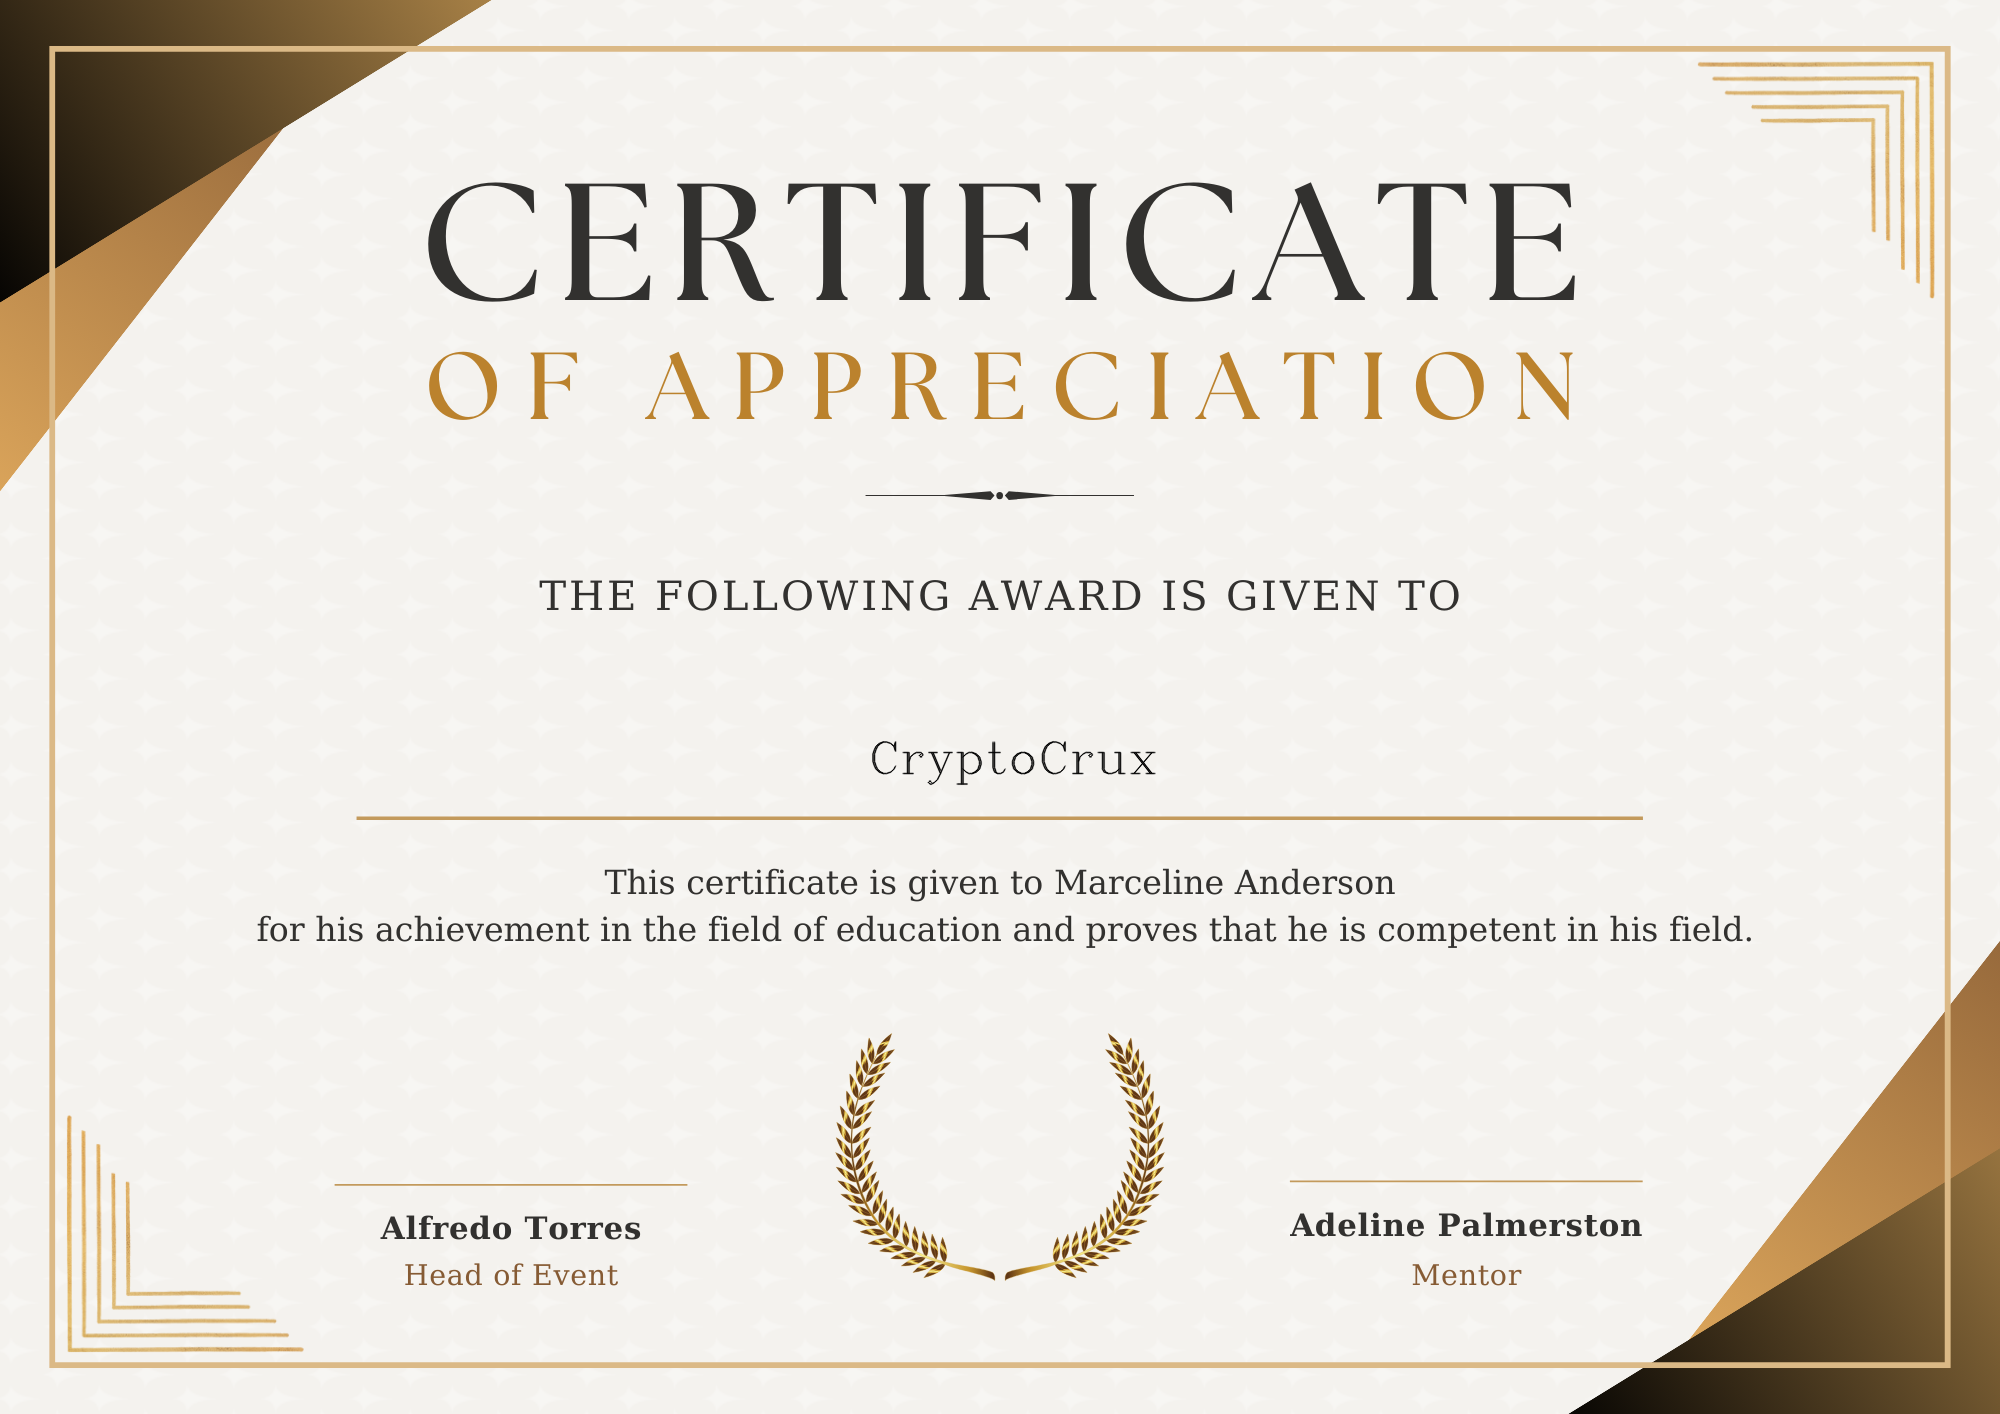
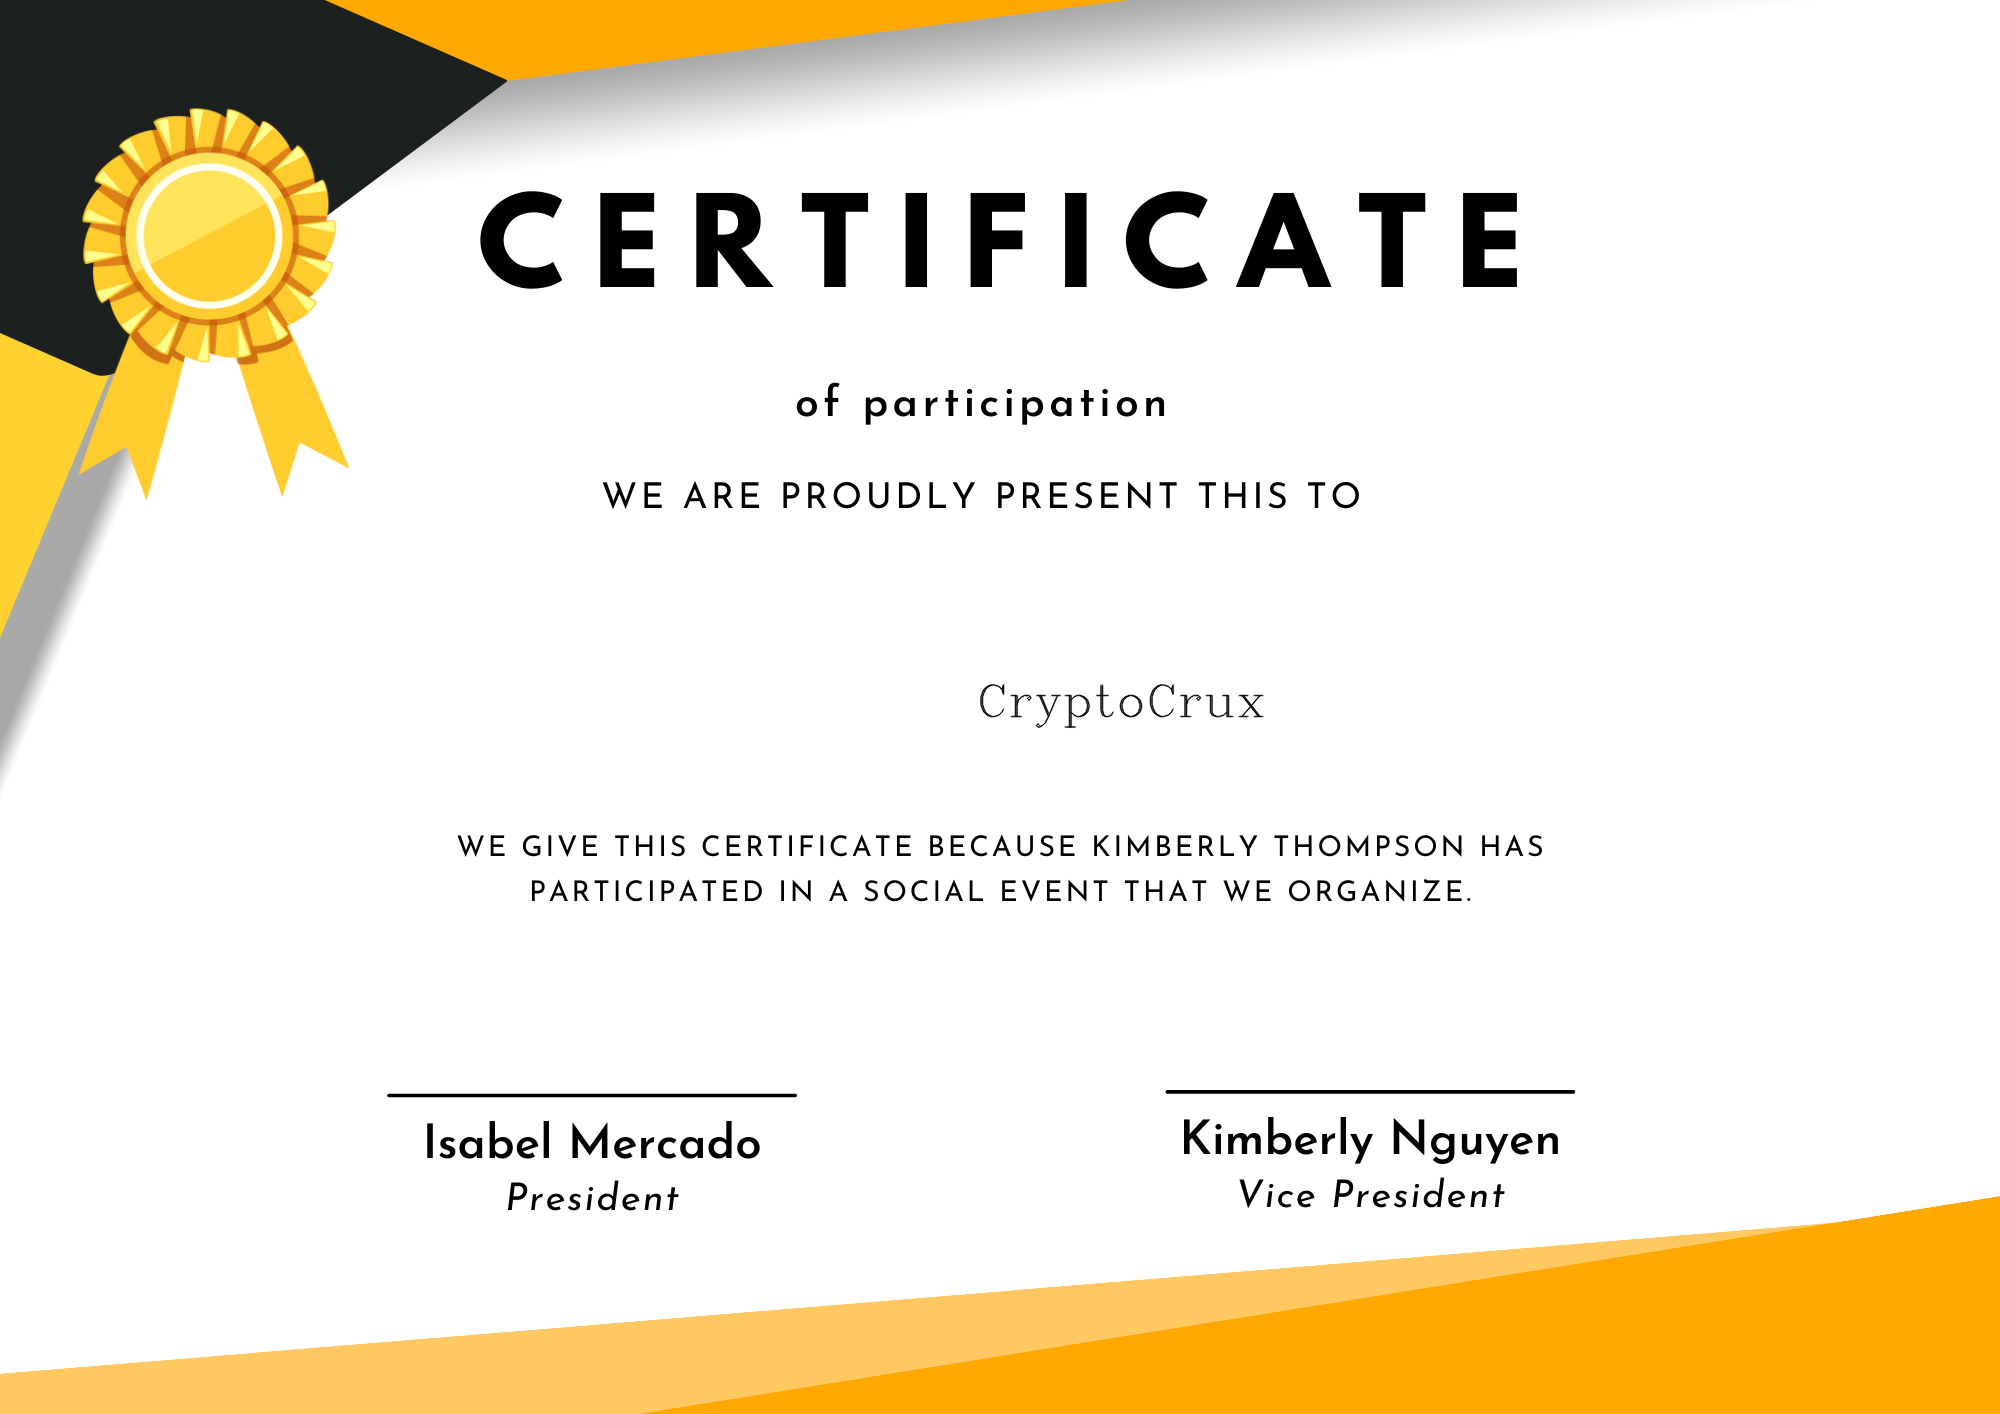
linked admin and verify in react
linked admin and verify in react

diff --git a/sih-react/src/Pages/Generate/Generate.js b/sih-react/src/Pages/Generate/Generate.js
@@ -8,12 +8,26 @@ import { Link } from 'react-router-dom';
 function Generate() {
   const [status, setStatus] = useState("");
   const [selectedImage, setSelectedImage] = useState(null);
+  const [Image,SetImage] = useState(null);
   
+  /* Test Purpose */
+  const [x,setX]=useState('');
+  const [y,setY]=useState('');
 
   const handleCreateCertificates = async () => {
     try {
-      const response = await axios.get(
-        "http://localhost:5000/generate_certificate"
+      const response = await axios.post(
+        "http://localhost:5000/generate_certificate",
+        {
+          method: 'POST',
+          headers: {
+            'Content-Type': 'application/json',
+          },
+          // template:JSON.stringify( selectedTemplate ),
+          template: Image,
+          X:x,
+          Y:y,
+        }
       );
 
       if (response.status === 200) {
@@ -26,8 +40,12 @@ function Generate() {
     }
   };
 
-  const handleImageClick = (imageUrl) => {
-    setSelectedImage(imageUrl);
+  const handleImageClick = (imageUrl,xAxis,yAxis) => {
+    setSelectedImage(`Templates/${imageUrl}`);
+    /* Test Purpose */
+    setX(xAxis);
+    setY(yAxis);
+    SetImage(imageUrl);
   };
   
 
@@ -123,11 +141,11 @@ function Generate() {
             >
               <div
                 className="image-container"
-                onClick={() => handleImageClick("assets/images/cert1.png")}
+                onClick={() => handleImageClick("template1.png",'1009','644')}
                 style={{ marginRight: "90px" }} // Add margin between images
               >
                 <img
-                  src="assets/images/cert1.png"
+                  src="Templates/template1.png"
                   style={{ width: "500px" }}
                   alt="Image 1"
                 />
@@ -135,11 +153,11 @@ function Generate() {
               </div>
               <div
                 className="image-container"
-                onClick={() => handleImageClick("assets/images/test.jpg")}
+                onClick={() => handleImageClick("template2.png",'976','727')}
                 style={{ marginRight: "90px" }} // Add margin between images
               >
                 <img
-                  src="assets/images/test.jpg"
+                  src="Templates/template2.png"
                   style={{
                     width: "500px",
                     marginRight: "50%",
@@ -150,11 +168,11 @@ function Generate() {
               </div>
               <div
                 className="image-container"
-                onClick={() => handleImageClick("assets/images/cert2.png")}
+                onClick={() => handleImageClick("template3.png",'976','716')}
                 style={{ marginRight: "90px" }} // Add margin between images
               >
                 <img
-                  src="assets/images/cert2.png"
+                  src="Templates/template3.png"
                   style={{ width: "500px" }}
                   alt="Image 1"
                 />
@@ -162,11 +180,11 @@ function Generate() {
               </div>
               <div
                 className="image-container"
-                onClick={() => handleImageClick("assets/images/test.jpg")}
+                onClick={() => handleImageClick("template4.png",'981','738')}
                 style={{ marginRight: "90px" }} // Add margin between images
               >
                 <img
-                  src="assets/images/test.jpg"
+                  src="Templates/template4.png"
                   style={{ width: "500px" }}
                   alt="Image 1"
                 />
@@ -174,11 +192,11 @@ function Generate() {
               </div>
               <div
                 className="image-container"
-                onClick={() => handleImageClick("assets/images/test.jpg")}
+                onClick={() => handleImageClick("template5.png",'973','698')}
                 style={{ marginRight: "90px" }} // Add margin between images
               >
                 <img
-                  src="assets/images/test.jpg"
+                  src="Templates/template5.png"
                   style={{ width: "500px" }}
                   alt="Image 1"
                 />
@@ -186,11 +204,11 @@ function Generate() {
               </div>
               <div
                 className="image-container"
-                onClick={() => handleImageClick("assets/images/cert1.png")}
+                onClick={() => handleImageClick("template6.png",'868','773')}
                 style={{ marginRight: "90px" }} // Add margin between images
               >
                 <img
-                  src="assets/images/cert1.png"
+                  src="Templates/template6.png"
                   style={{ width: "500px" }}
                   alt="Image 1"
                 />

diff --git a/sih-react/src/Components/Navbar/Navbar.js b/sih-react/src/Components/Navbar/Navbar.js
@@ -14,10 +14,10 @@ function Navbar(){
             <img src="assets/images/logo.png" width="50px"/>
             <div>
                 <ul id="Navbar-Menu-Container" className={clicked?"Navbar-Menu-Container active":"Navbar-Menu-Container"}>
-                    <Link to="home" smooth={true} duration={1000}><li><a href="#" className="active">Home</a></li></Link>
+                    <li><a href="/" className="active">Home</a></li>
                     <li><a href="/generate" className="active">Generate</a></li>
-                    <Link to="team" smooth={true} duration={1000}><li><a href="#" className="active">Deploy</a></li></Link>
-                    <li><a href="#" className="active">Verify</a></li>
+                    <li><a href="/admin" className="active">Deploy</a></li>
+                    <li><a href="/verify" className="active">Verify</a></li>
                     <li className="Login"><a href="#" className="active">Cruxer 🔐</a></li>
                 </ul>
             </div>

diff --git a/sih-react/src/Pages/Landing/Landing.js b/sih-react/src/Pages/Landing/Landing.js
@@ -7,9 +7,10 @@ import Container from '../../Components/BtnContainer/Container';
 import Animation from '../../Components/Carousel/Animation';
 import Footer from '../../Components/Footer/Footer';
 import {BrowserRouter, Routes,Route,redirect,Navigate} from "react-router-dom";
-import Button from "../../Components/Button/Button";
 import Generate from "../Generate/Generate";
 import Data from "../Data/Data";
+import Verify from "../Verify/Verify";
+import Admin from "../Admin/Admin";
 export default function Landing() {
     return (
         <div>
@@ -28,7 +29,8 @@ export default function Landing() {
                     }/>
                     <Route path="/generate" element={<Generate/>}/>
                     <Route path="/data" element={<Data/>}/>
-                    
+                    <Route path="/verify" element={<Verify/>}/>
+                    <Route path="/admin" element={<Admin/>} />
                 </Routes>
             </BrowserRouter>
         </div>

diff --git a/sih-react/src/Pages/Verify/Verify.js b/sih-react/src/Pages/Verify/Verify.js
@@ -1,0 +1,7 @@
+import "./Verify.css";
+
+export default function Verify(){
+    return(
+        <h1>Hello World</h1>
+    )
+}

diff --git a/sih-react/src/Pages/Admin/Admin.js b/sih-react/src/Pages/Admin/Admin.js
@@ -1,0 +1,7 @@
+import "./Admin.css";
+
+export default function Admin(){
+    return(
+        <h1>Hello Admin</h1>
+    )
+}

diff --git a/sih-react/src/main.py b/sih-react/src/main.py
@@ -11,10 +11,21 @@ public_folder_path = os.path.join(parent_directory, 'public')
 app = Flask(__name__)
 CORS(app)
 
-@app.route('/generate_certificate', methods=['GET', 'POST'])
+@app.route('/generate_certificate', methods=['POST'])
 def generate_certificate():
+    # test Purpose
+    print(parent_directory)
+    print(public_folder_path)
+    data=request.get_json()
+    img=data['template']
+    print(img)
+    X=int(data['X'])
+    Y=int(data['Y'])
+    print(X)
+    print(Y)
     try:
-        template_path = os.path.join(public_folder_path, 'Templates', 'Certificate_Template.png')
+        #template_path = os.path.join(public_folder_path, 'Templates', 'template1.png')
+        template_path = os.path.join(public_folder_path, 'Templates',img)
         data_path = os.path.join(public_folder_path, 'data', 'Data.xlsx')
 
         # Check if files exist
@@ -28,7 +39,7 @@ def generate_certificate():
 
         for index, name in enumerate(list_names):
             template = cv2.imread(template_path)
-            cv2.putText(template, name, (868, 773), cv2.FONT_HERSHEY_COMPLEX, 1.5, (0, 0, 0), 1, cv2.LINE_AA)
+            cv2.putText(template, name, (X, Y), cv2.FONT_HERSHEY_COMPLEX, 1.5, (0, 0, 0), 1, cv2.LINE_AA)
             certificate_path = os.path.join(certificate_folder, f'{name}.png')
             # cv2.imwrite(certificate_path, template)
             cv2.imwrite(certificate_path, template)
